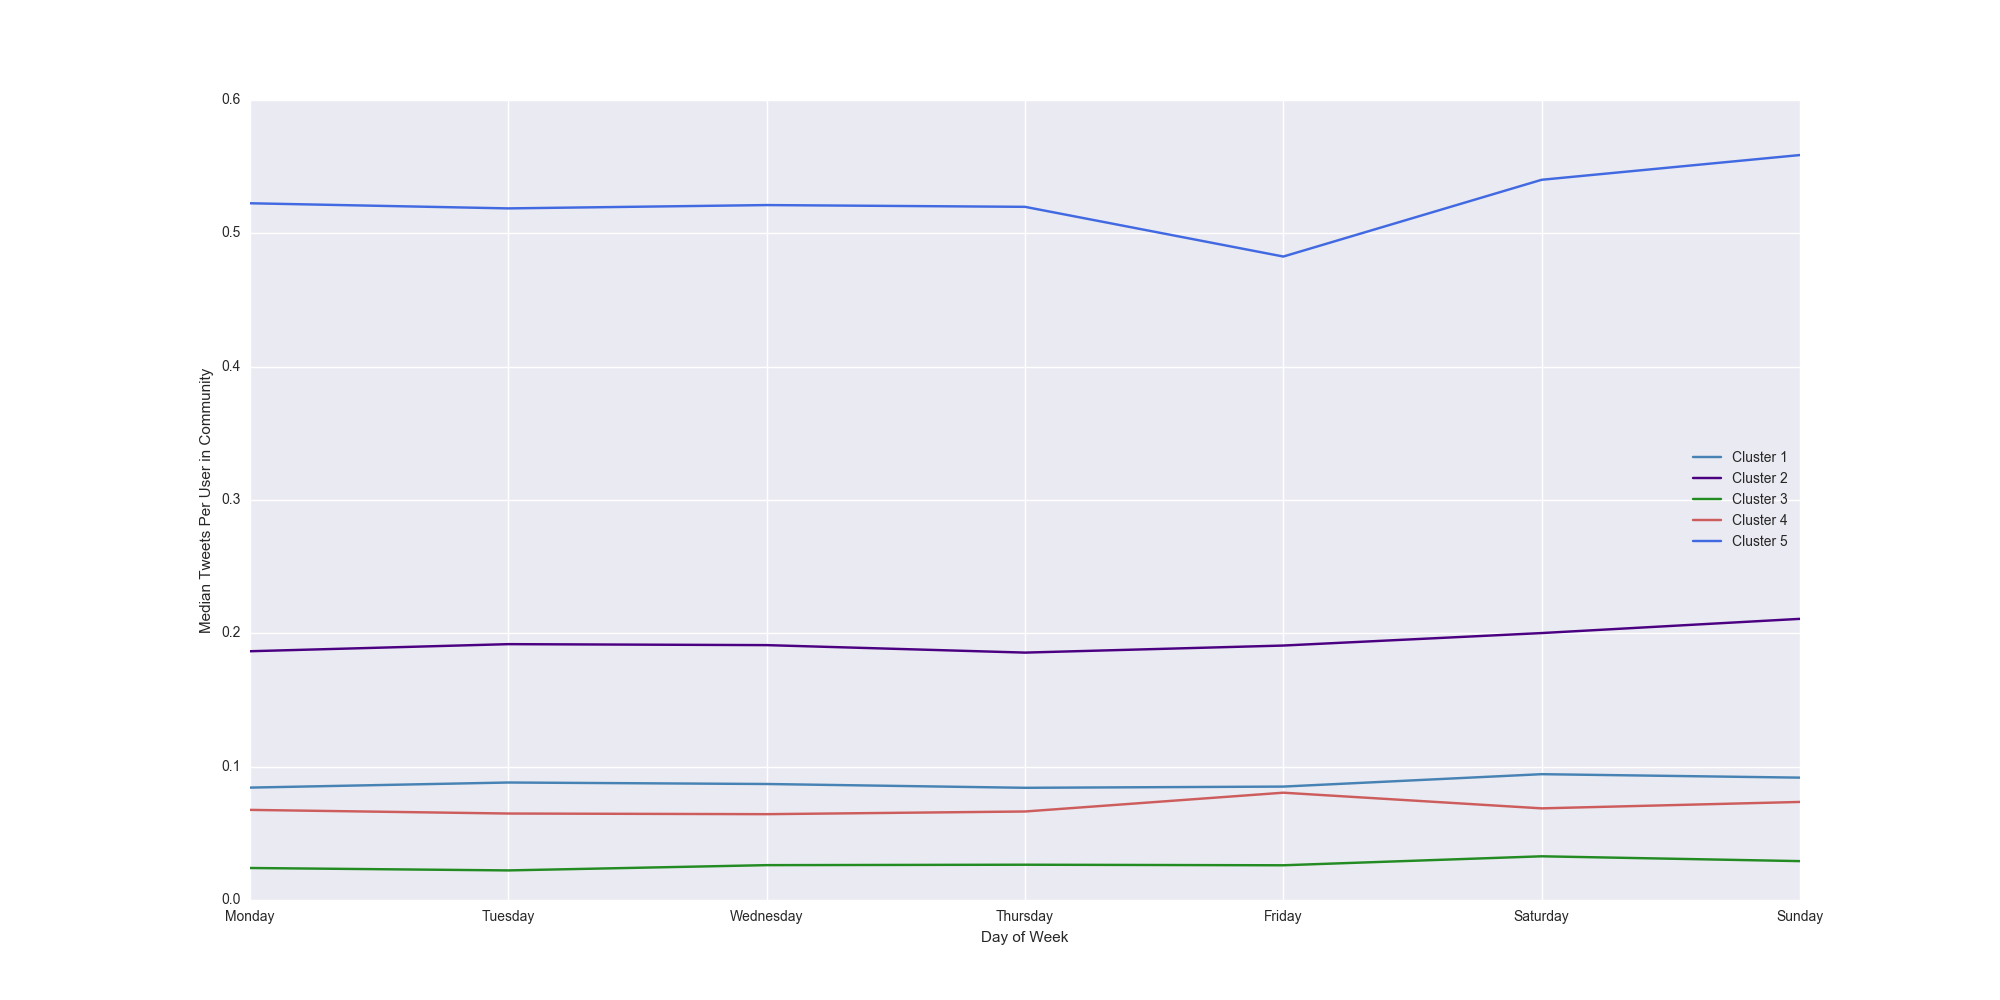
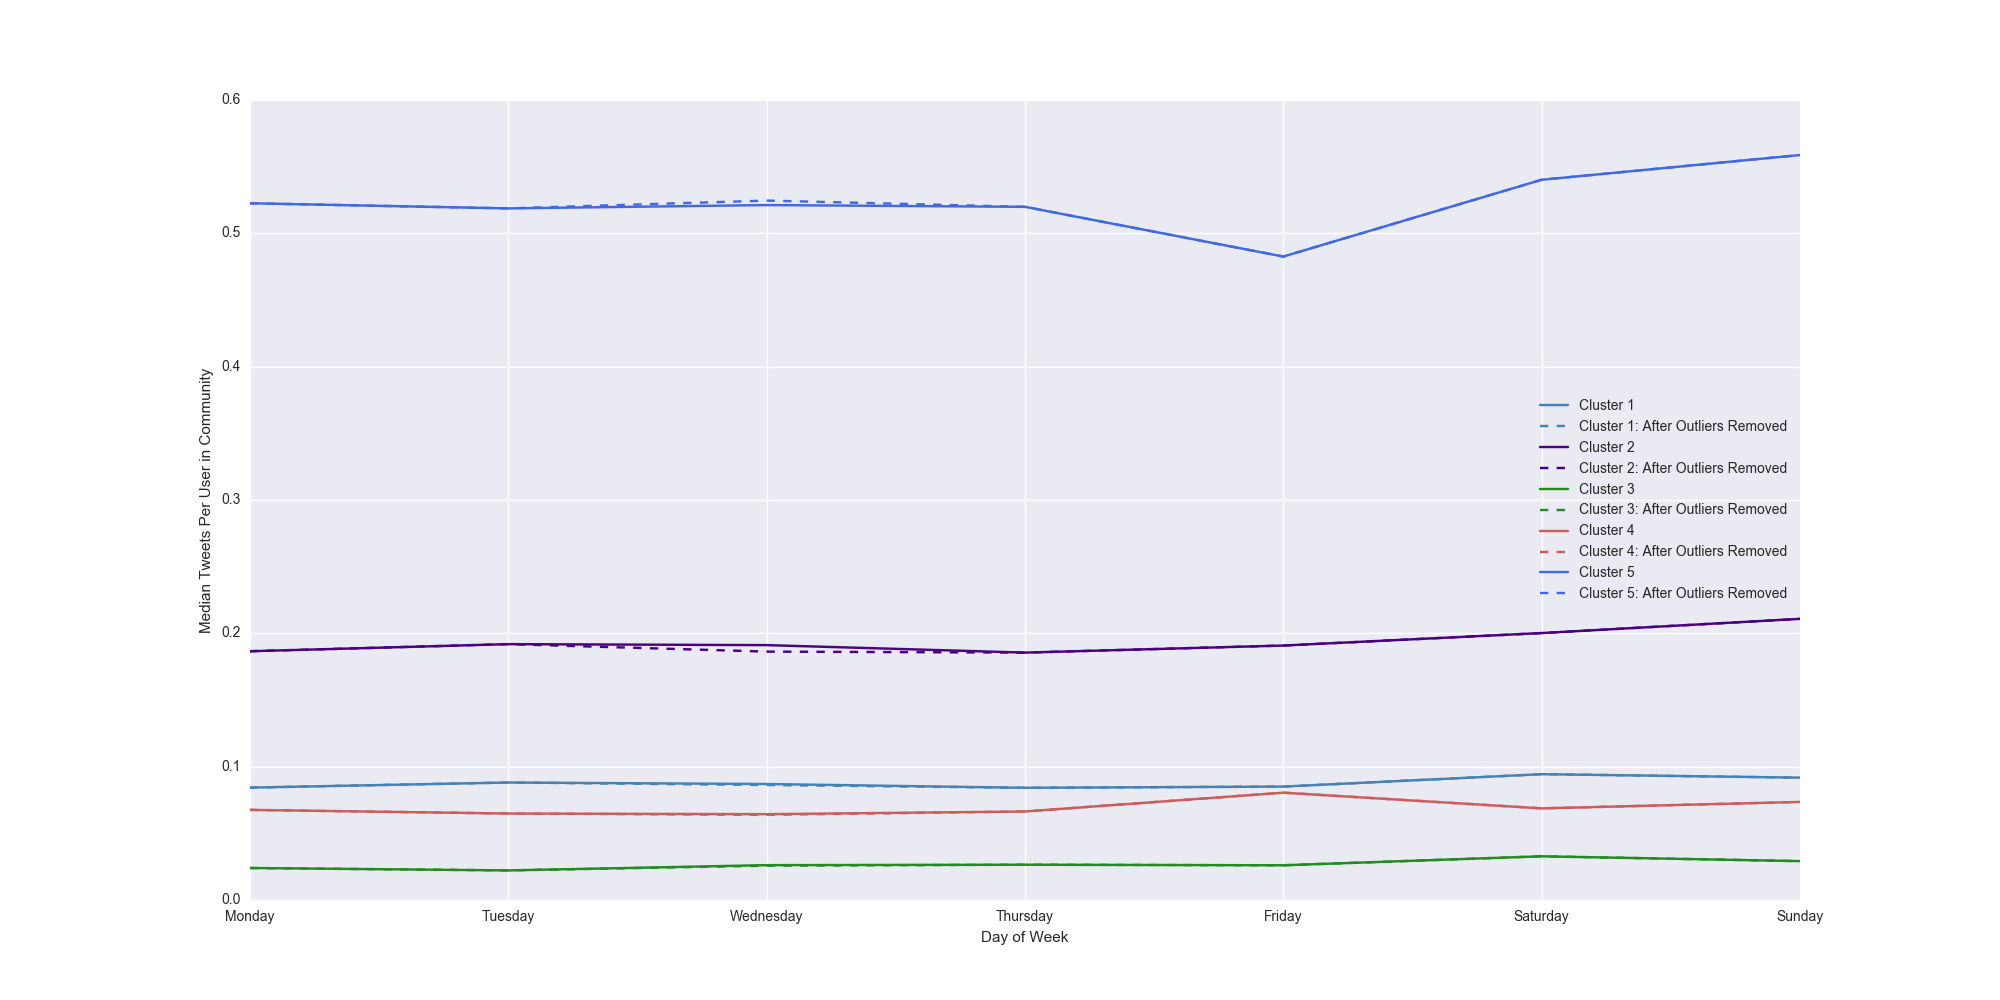
new images

Changed region(s): [[0.775, 0.403, 0.899, 0.589], [0.806, 0.589, 0.899, 0.62]]

diff --git a/Analysis/Final_Time_Series.py b/Analysis/Final_Time_Series.py
@@ -53,13 +53,14 @@ cluster5_series = pd.Series(df_cluster5["Median_Counts"].as_matrix(), index=df_c
 cluster5_series.describe()
 
 ######################Plotting Entire Time Series With Rolling Average Plots###########
-fig = plt.figure(figsize=(7, 4), dpi=300)
+fig = plt.figure(figsize=(8, 3.75), dpi=300)
 
 ts = fig.add_subplot(1, 1, 1)
 #fig.set_xlabel('Date', fontsize=8)
 plt.xlabel('Date', fontsize='small')
 
 plt.ylabel('Median Tweets Per User in Community', fontsize=8)
+plt.ylim(ymax=.8, ymin=0)
 fig = cluster1_series.plot(color="forestgreen", label='Cluster 1')
 fig = cluster1_series.rolling(window=7, center=False).mean().plot(
     color='lightgreen', linestyle='dashed', label='Cluster 1 Rolling 7 Day Mean')
@@ -80,7 +81,7 @@ fig = cluster5_series.plot(color='indianred', label='Cluster 5')
 fig = cluster5_series.rolling(window=7, center=False).mean().plot(
     color='lightcoral', linestyle='dashed', label='Cluster 5 Rolling 7 Day Mean')
 fig = ts.legend(loc='best', prop={'size': 4})
-plt.savefig("Graphs/Istanbul/Final_Rollingandpercentage.png")
+plt.savefig("Graphs/LA/Final_Rollingandpercentage.png", dpi=300)
 plt.close()
 
 #########Day of the week plots##########
@@ -190,4 +191,4 @@ series5.plot(color='royalblue', label='Cluster 5')
 dow_series5.plot(color='royalblue', linestyle='dashed', label='Cluster 5: After Outliers Removed')
 
 fig = ts.legend(loc='best')
-plt.savefig("Graphs/Istanbul/Final_Day_of_The_Week.png")
+plt.savefig("Graphs/LA/Final_Day_of_The_Week.png")

diff --git a/Analysis/Cleaning.py b/Analysis/Cleaning.py
@@ -7,17 +7,17 @@ import psycopg2
 from login_info import user, host, password
 
 # sql command
-from SQL_Commands import Istanbul_Sql
+from SQL_Commands import LA_Sql
 #######Importing and Cleaning######
 # connect to database
 conn = psycopg2.connect(
-    "dbname='culturalmapper_Istanbul' user=%s host=%s password=%s" % (user, host, password))
+    "dbname='culturalmapper_LA' user=%s host=%s password=%s" % (user, host, password))
 
 # import csv locally
 df = pd.read_csv(
-    "/Users/tylerworthington/Git_Repos/Data/Cultural_Mapper_Data/Istanbul/Combined_Istanbul_035.csv")
+    "/Users/tylerworthington/Git_Repos/Data/Cultural_Mapper_Data/LA/English_LA/035Data/035Data/English_LA.csv")
 # Query database for data within interested time frame
-primary = psql.read_sql(Istanbul_Sql, conn)
+primary = psql.read_sql(LA_Sql, conn)
 
 # Dropping uneeded variables
 df.drop(['Unnamed: 0'], inplace=True, axis=1)
@@ -114,5 +114,5 @@ cluster_mapping_la = {"ar": 1,
                       8: 5,
                       9: 5}
 
-fulldf["Cluster"] = fulldf["top_topic"].map(cluster_mapping_istanbul)
+fulldf["Cluster"] = fulldf["top_topic"].map(cluster_mapping_la)
 fulldf["Cluster"].dropna(inplace=True)
